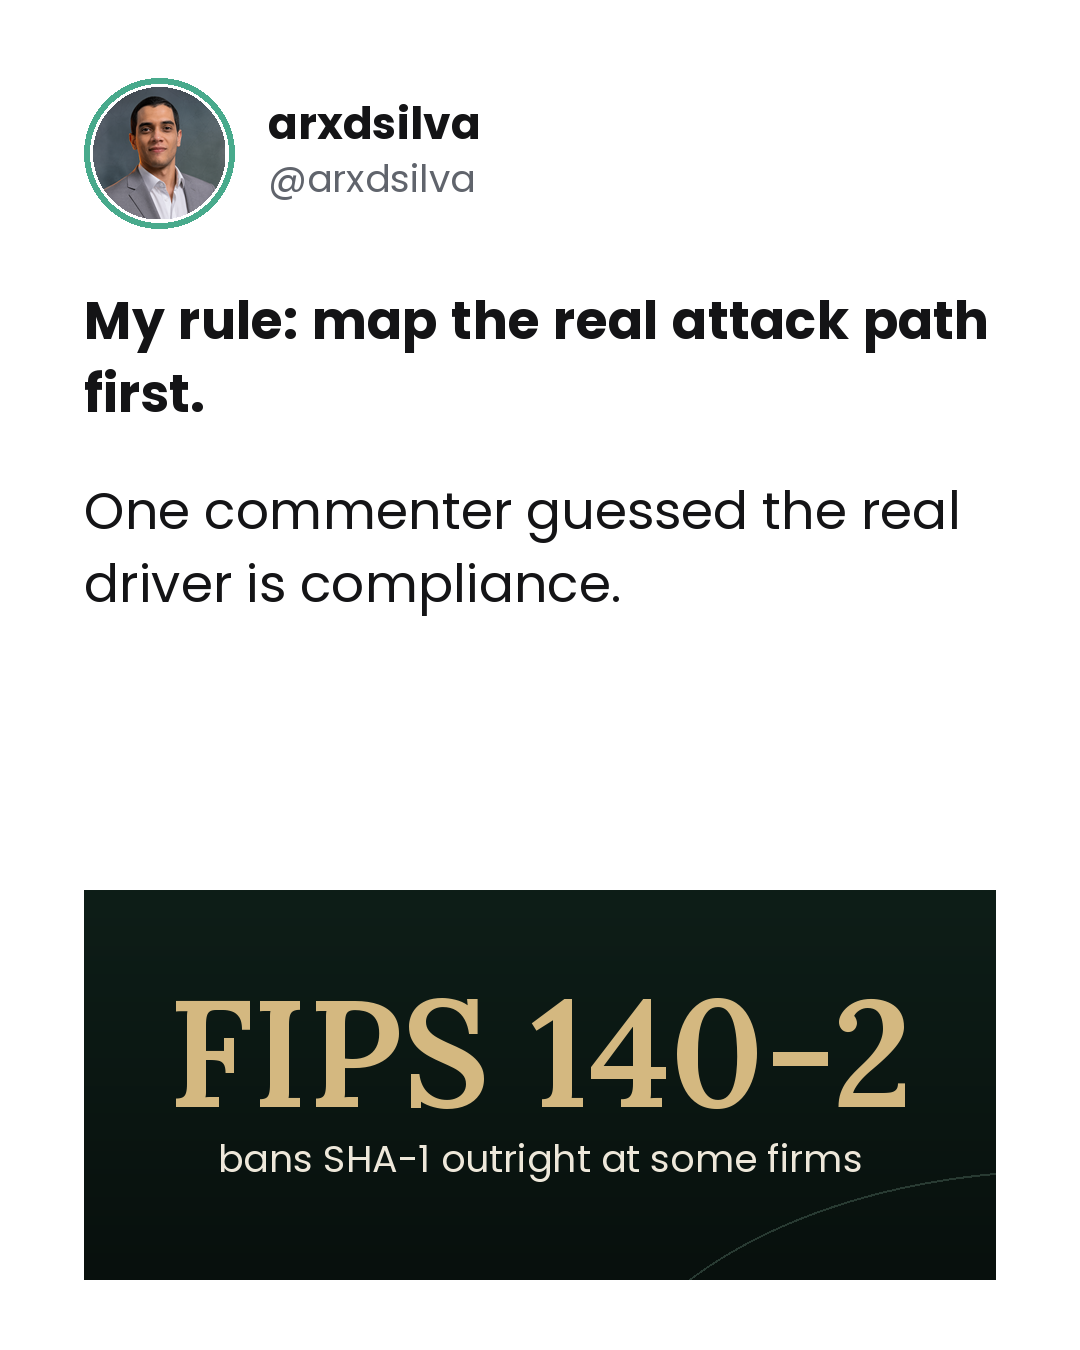
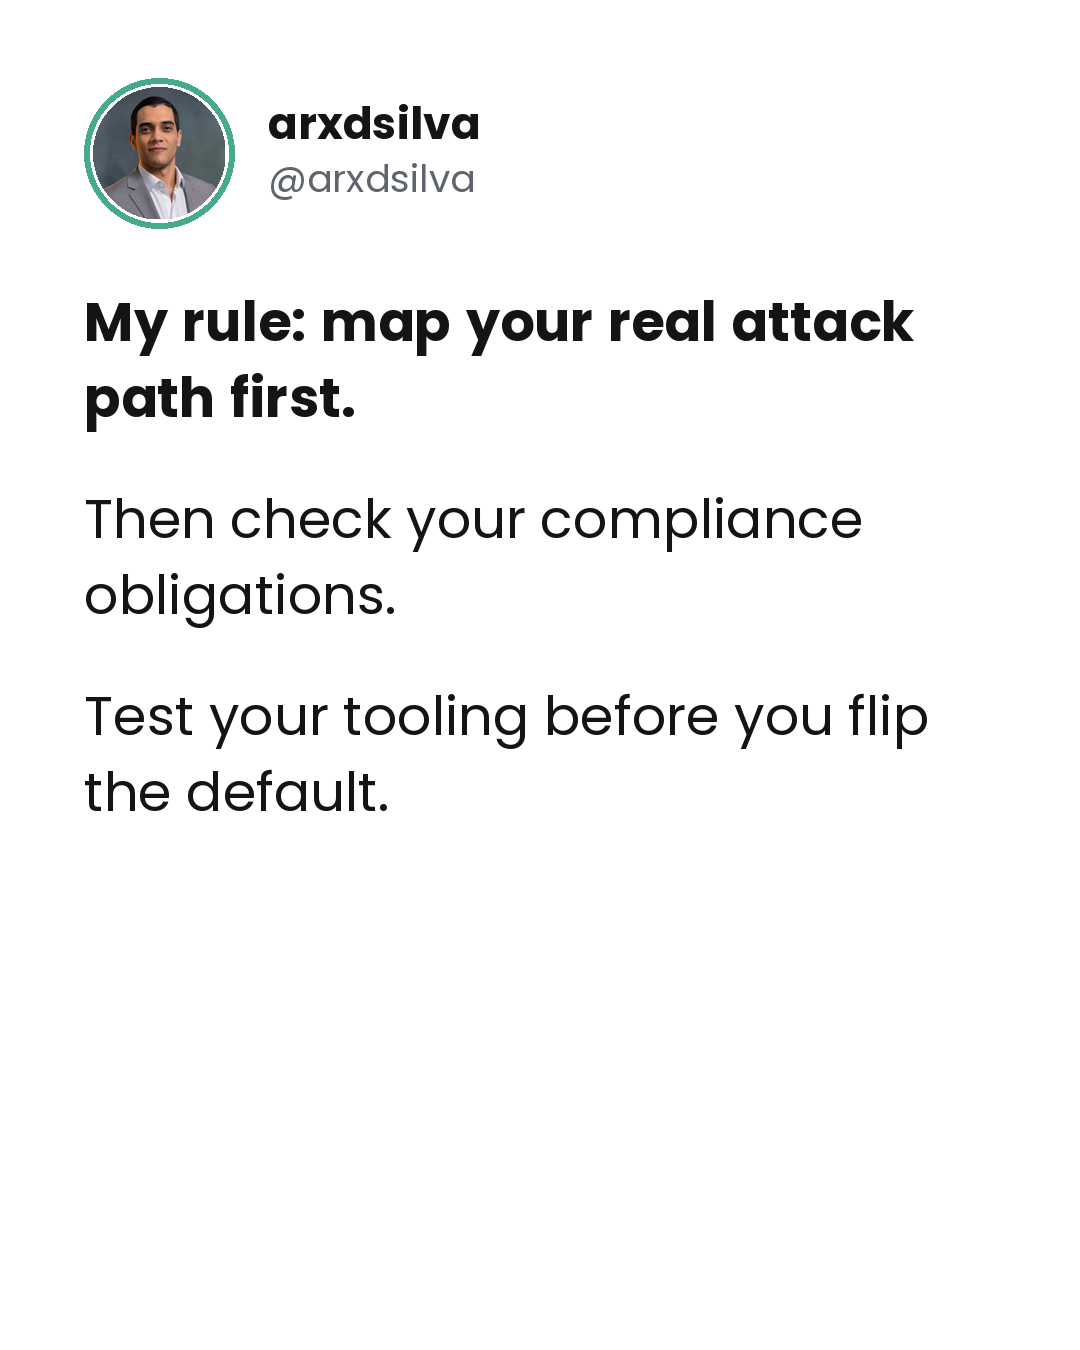
post: 2026-10-02-git-sha256-migration (rewrite: Type C hot take)
Rebuild under the new lesson-not-news routine. Type C (Hot take):
stance is Chacon is half right about Git 3.0's SHA-256 migration -
right that it doesn't stop real attacks, wrong to call it pure waste
given compliance rules like FIPS 140-2. New hook formula, an
opposing-comment panel slide with a corrected (non-paraphrased) pull
quote, and a stance checkbox in REVIEW.md for the owner to confirm
or flip. LinkedIn assets rewritten to the type's structured body and
a hook that leads with the reader's own stake, no PDF (type C skips
it), no links or emoji per the new linkedin.txt rules.

Claude-Session: https://claude.ai/code/session_01CNRPjSMPnecokqt6jj56bo

diff --git a/posts/2026-10-02-git-sha256-migration/REVIEW.md b/posts/2026-10-02-git-sha256-migration/REVIEW.md
@@ -1,17 +1,16 @@
-# Review checklist — 2026-10-02-git-sha256-migration
+# Review checklist — 2026-10-02-git-sha256-migration (Type C: Hot take)
+
+## Stance
+- [ ] **Stance (slide 1 / caption / linkedin.txt): "Scott Chacon says Git's SHA-256 migration is a costly mistake. I think he's half right."** Right that trust was never about the hash and real attacks don't need to crack it; wrong to call the migration purely unnecessary, since compliance rules (FIPS 140-2) force it at some firms regardless of any exploit. Confirm you agree with this stance, or tell me which way to flip it (fully agree / fully disagree with Chacon) and I'll rebuild the carousel around that instead.
 
 ## Claims about the owner
-- [ ] Slide 7 / linkedin.txt: "My rule: map the real attack path first." — stated as the owner's own rule, not an invented anecdote, but confirm he's comfortable publishing it as his stance.
+- [ ] Slide 7 / linkedin.txt: "My rule: map your real attack path first." — stated as the owner's own rule, not an invented anecdote, but confirm he's comfortable publishing it as his stance.
 
 ## Numbers and facts to double-check
-- [ ] Scott Chacon identified as "GitHub's co-founder" — confirmed by the article's own byline (blog.gitbutler.com), which also credits him as a GitButler co-founder and author of Pro Git.
-- [ ] $40k figure (slide 2 bullets) — Chacon's own rhetorical number in the article for a hypothetical maintainer payoff, not a documented real-world incident.
+- [ ] Scott Chacon identified as GitHub's co-founder and the author of Pro Git — confirmed by the article's own byline (blog.gitbutler.com).
 - [ ] "GitHub still has no public SHA-256 support" (slide 5) — true per the HN thread as of this writing (SHA-256 support is in closed beta); could go stale if GitHub ships it.
-- [ ] SHAttered (2017) and SHA-1 is a Shambles (2020) attack names/dates — taken directly from the article, not independently re-verified here.
-- [ ] FIPS 140-2 banning SHA-1 (slide 7 panel) — sourced from a commenter's claim in the thread, not the article itself; worth a sanity check before this goes out if it needs to be airtight.
-
-## Slides I'm less sure about
-- [ ] Slide 6: paraphrases Git's official hash-function-transition docs via a commenter's summary (GrantMoyer) rather than the docs directly — accurate to the thread, but double-check against git-scm.com/docs/hash-function-transition if precision matters.
+- [ ] FIPS 140-2 banning SHA-1 (slide 4) — sourced from a commenter's claim in the thread, not the article itself; worth a sanity check before this goes out if it needs to be airtight.
+- [ ] Slide 6 panel quote ("A practical proof of concept.") — a shortened, close paraphrase of commenter kpcyrd's line that SHAttered "was specifically a pratical proof of concept," not a word-for-word quote. Flagging since it's presented in quotation marks.
 
 ## Image
-- [ ] Slide 1's image (`assets/article.jpg`) is the article's own hero illustration, pulled from its `og:image` via `fetch_image.py`. It's the article's own promotional art, not a photo we have separate rights to — flagging in case that matters for how this gets posted.
+- [ ] Slide 1's image (`assets/article.jpg`) is the article's own hero illustration, pulled via `fetch_image.py`'s `og:image` fetch, also reused on `linkedin.png`. It's the article's own promotional art, not something we have separate rights to.

diff --git a/posts/2026-10-02-git-sha256-migration/sources.md b/posts/2026-10-02-git-sha256-migration/sources.md
@@ -1,2 +1,5 @@
+Type: C (Hot take)
+Angle: Scott Chacon says Git's SHA-256 migration is a costly mistake. I think he's half right — right that trust was never about the hash and real attacks don't need to crack it, wrong to dismiss the migration as purely unnecessary given FIPS 140-2 compliance pressure.
+
 - HN thread: https://news.ycombinator.com/item?id=49924179 — 436 points, 411 comments, rank #10 on the 2026-10-02 front page.
 - Article: [Git 3.0's upcoming SHA-256 default will be a costly mistake](https://blog.gitbutler.com/git-3-sha-256) by Scott Chacon (blog.gitbutler.com).
